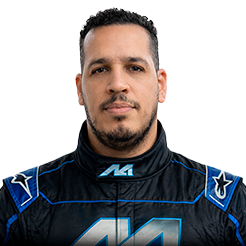
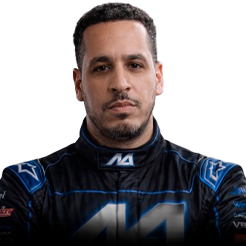
Fotos pilotos T21 (carreira/light s21 + SML) e correção vagas propostas no DRAFT
Made-with: Cursor

diff --git a/src/pages/AdminDraftImport.jsx b/src/pages/AdminDraftImport.jsx
@@ -354,22 +354,10 @@ export default function AdminDraftImport() {
 
             const statusMap = {};
             
-            // Processar propostas
+            // Processar propostas (contagem por equipe só depois dos contratos + pilotos distintos)
             if (propostasData) {
-                const teamCounts = {};
                 propostasData.forEach(proposta => {
                     const codIdmlNormalizado = normalizeCodIdml(proposta.pilot_cod_idml);
-                    
-                    // SÓ CONTAR PROPOSTA SE O PILOTO NÃO TIVER CONTRATO FECHADO
-                    // Buscamos se esse cod_idml já está no statusMap como hasContract (processado na etapa de contratos)
-                    // Como processamos contratos DEPOIS no código atual, vou inverter a ordem ou fazer uma pré-verificação.
-                    
-                    const teamIdForCount = proposta.team_id || proposta.equipes?.id;
-                    if (teamIdForCount) {
-                        const tid = String(teamIdForCount);
-                        // Por enquanto guardamos todos, vamos filtrar na renderização ou após processar contratos
-                        teamCounts[tid] = (teamCounts[tid] || 0) + 1;
-                    }
                     if (codIdmlNormalizado) {
                         if (!statusMap[codIdmlNormalizado]) {
                             statusMap[codIdmlNormalizado] = { hasProposal: false, hasContract: false, team: null, teamsWithProposals: [] };
@@ -383,11 +371,6 @@ export default function AdminDraftImport() {
                         }
                     }
                 });
-
-                setOfferSentCountByTeamByGrid(prev => ({
-                    ...prev,
-                    [negotiationsGrid]: teamCounts
-                }));
             }
 
             // Processar contratos
@@ -407,21 +390,22 @@ export default function AdminDraftImport() {
                 });
             }
 
-            // RECALCULAR CONTAGEM DE PROPOSTAS ENVIADAS (DESCONSIDERAR QUEM JÁ TEM CONTRATO)
+            // Vagas: 2 pilotos distintos por equipe/grid (contrato OU OFFER_SENT). Ignora duplicatas no banco e quem já fechou contrato.
             if (propostasData) {
-                const teamCounts = {};
+                const teamPilotSets = {};
                 propostasData.forEach(proposta => {
                     const codIdmlNormalizado = normalizeCodIdml(proposta.pilot_cod_idml);
-                    // Se o piloto já tem contrato, a proposta enviada dele NÃO ocupa mais vaga na equipe
-                    if (codIdmlNormalizado && statusMap[codIdmlNormalizado]?.hasContract) {
-                        return;
-                    }
+                    if (!codIdmlNormalizado || statusMap[codIdmlNormalizado]?.hasContract) return;
 
                     const teamIdForCount = proposta.team_id || proposta.equipes?.id;
-                    if (teamIdForCount) {
-                        const tid = String(teamIdForCount);
-                        teamCounts[tid] = (teamCounts[tid] || 0) + 1;
-                    }
+                    if (!teamIdForCount) return;
+                    const tid = String(teamIdForCount);
+                    if (!teamPilotSets[tid]) teamPilotSets[tid] = new Set();
+                    teamPilotSets[tid].add(codIdmlNormalizado);
+                });
+                const teamCounts = {};
+                Object.entries(teamPilotSets).forEach(([tid, set]) => {
+                    teamCounts[tid] = set.size;
                 });
                 setOfferSentCountByTeamByGrid(prev => ({
                     ...prev,
@@ -484,7 +468,8 @@ export default function AdminDraftImport() {
                         const piloto = pilotos[grid].find(p => String(p.id) === String(pilotId));
                         if (piloto) {
                             const cod = normalizeCodIdml(piloto.cod_idml);
-                            if (cod && pilotoPropostasStatus[cod]?.hasContract) {
+                            const st = cod ? pilotoPropostasStatus[cod] : null;
+                            if (cod && (st?.hasContract || st?.hasProposal)) {
                                 delete gridProposals[pilotId];
                                 changed = true;
                             }
@@ -753,16 +738,28 @@ export default function AdminDraftImport() {
                     (getContractGrid(c) === currentGrid)
                 ).length;
 
-                const { count: dbOfferSentCount, error: countError } = await supabase
+                const { data: offerRows, error: offerErr } = await supabase
                     .from('interests')
-                    .select('id', { count: 'exact', head: true })
+                    .select('pilot_cod_idml')
                     .eq('status', 'OFFER_SENT')
                     .eq('season', draftSeason)
                     .eq('grid', negotiationsGrid)
                     .eq('team_id', teamId);
-                if (countError) throw countError;
-                const sentProposalsCount = dbOfferSentCount || 0;
-                
+                if (offerErr) throw offerErr;
+
+                const contractedCods = new Set(
+                    contracts
+                        .filter(c => String(c.team_id) === tid && getContractGrid(c) === currentGrid)
+                        .map(c => normalizeCodIdml(c.pilot_cod_idml))
+                        .filter(Boolean)
+                );
+                const offerPilotSet = new Set();
+                (offerRows || []).forEach((r) => {
+                    const c = normalizeCodIdml(r.pilot_cod_idml);
+                    if (c && !contractedCods.has(c)) offerPilotSet.add(c);
+                });
+                const sentProposalsCount = offerPilotSet.size;
+
                 if (closedContractsCount + sentProposalsCount >= 2) {
                     alert(`❌ A equipe ${team?.name || teamId} já atingiu o limite de 2 vagas (contratos ou propostas enviadas).`);
                     return;
@@ -1591,7 +1588,16 @@ export default function AdminDraftImport() {
                                                                 const closedContractsCount = contracts.filter(c => String(c.team_id) === tid && (getContractGrid(c) === currentGrid)).length;
                                                                 const sentProposalsCount = (offerSentCountByTeamByGrid?.[negotiationsGrid]?.[tid] || 0);
                                                                 const officialOccupied = closedContractsCount + sentProposalsCount;
-                                                                const otherPendingCount = Object.entries(gridProposals).filter(([pid, pTeams]) => String(pid) !== String(piloto.id) && (pTeams || []).map(String).includes(tid)).length;
+                                                                // Só conta seleção local de quem ainda não tem proposta/contrato no DB (evita somar 1+1 com estado sujo após ENVIAR)
+                                                                const otherPendingCount = Object.entries(gridProposals).filter(([pid, pTeams]) => {
+                                                                    if (String(pid) === String(piloto.id)) return false;
+                                                                    if (!(pTeams || []).map(String).includes(tid)) return false;
+                                                                    const outro = pilotos[negotiationsGrid]?.find(p => String(p.id) === String(pid));
+                                                                    const oc = outro?.cod_idml ? normalizeCodIdml(outro.cod_idml) : null;
+                                                                    if (oc && pilotoPropostasStatus[oc]?.hasContract) return false;
+                                                                    if (oc && pilotoPropostasStatus[oc]?.hasProposal) return false;
+                                                                    return true;
+                                                                }).length;
                                                                 const isSent = pilotoStatus?.teamsWithProposals?.map(String).includes(tid);
                                                                 const isFull = officialOccupied >= 2;
                                                                 const isBlockedByLimit = !isSelected && (officialOccupied + otherPendingCount >= 2);
